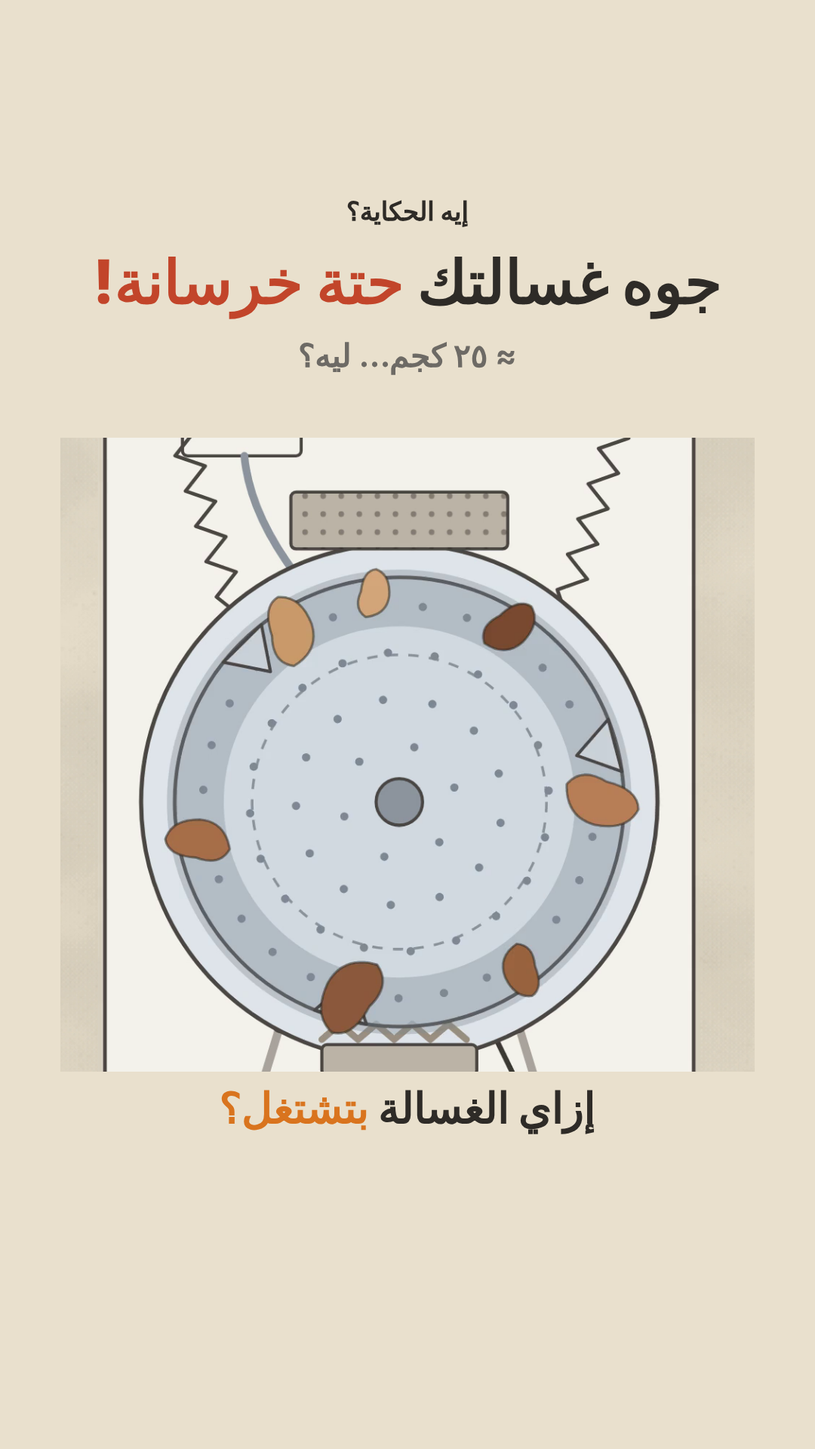
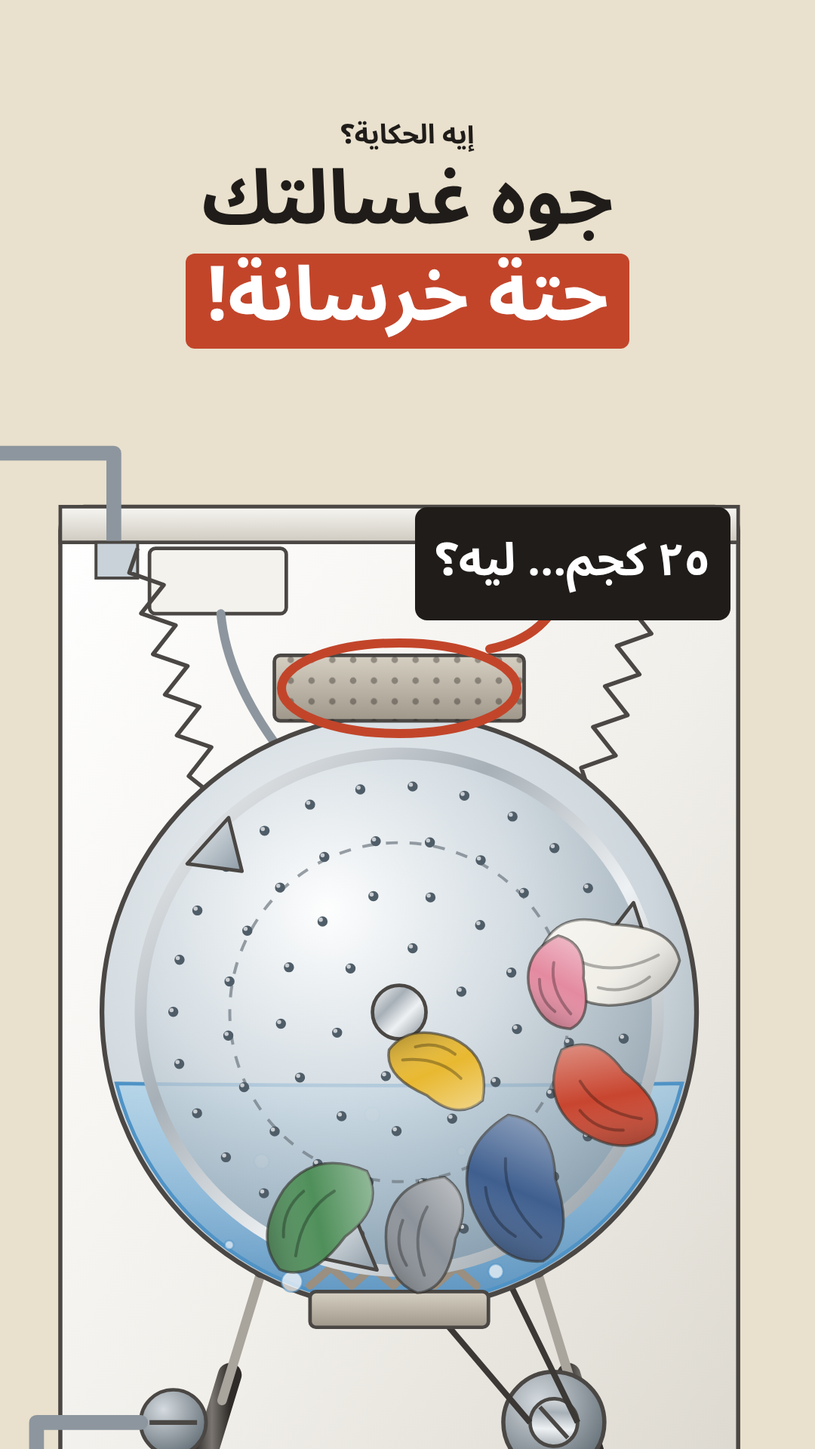
Washer: realistic shading (chrome drum, gradients, shadows, real-coloured clothes with folds, bubbles) and a sharp thumbnail drawn from the scene
Claude-Session: https://claude.ai/code/session_012dTfAniKuQkAFVCkp63p6x

diff --git a/brand/eh-elhekaya/cover-washer.html b/brand/eh-elhekaya/cover-washer.html
@@ -1,15 +1,111 @@
 <!doctype html>
 <html lang="ar" dir="rtl"><head><meta charset="utf-8"><title>Reel cover — washer</title>
-<link rel="stylesheet" href="../../design-system/tokens.css">
+<link rel="stylesheet" href="../../design-system/tokens.css"><link rel="stylesheet" href="../../design-system/components/bundle.css">
 <style>
-  body { margin: 0; } .cover { position: relative; width: 540px; height: 960px; overflow: hidden; font-family: var(--font-sans); color: #2e2b27; background: #e9e0cd; }
-  .bg { position: absolute; left: 40px; right: 40px; top: 290px; height: 420px; background: url(w-bg.png) center / cover; }
-  .t { position: absolute; left: 0; right: 0; text-align: center; margin: 0; }
+  /* 360×640 at 3x. Clean technical-diagram style: full-bleed paper, thin grey outlines, light fills, few words on screen. */
+  *, *::before, *::after { transition: none !important; animation: none !important; }
+  html, body { margin: 0; width: 360px; height: 640px; overflow: hidden; background: #e9e0cd; }
+  body { font-family: var(--font-sans); color: #2e2b27; }
+  .canvas { position: absolute; inset: 0; background: #e9e0cd center / cover; }
+  #stage { position: absolute; inset: 0; width: 360px; height: 640px; }
+  .mark { position: absolute; right: 14px; top: 14px; display: flex; gap: 5px; align-items: center; font: 700 10px var(--font-sans); opacity: .75; }
+  .caps { position: absolute; left: 20px; right: 20px; top: 60px; height: 60px; }
+  .cap { position: absolute; inset: 0; display: grid; place-items: center; text-align: center; opacity: 0; }
+  .cap p { margin: 0; font: 800 23px / 1.3 var(--font-sans); }
+  .w { --wc: #2e2b27; color: color-mix(in srgb, var(--wc) var(--mix, 100%), rgba(46,43,39,.25)); }
+  .w.k-blue { --wc: #2f6f9f; } .w.k-red { --wc: #c2452a; } .w.k-or { --wc: #d9741e; }
+  /* drawing */
+  .w-cab { fill: url(#gCab); stroke: #4a4744; stroke-width: 1.4; } .w-cab-top { fill: url(#gCabTop); stroke: #4a4744; stroke-width: 1.2; } .w-foot { fill: #5b5753; }
+  .w-tub { fill: url(#gTub); stroke: #4a4744; stroke-width: 1.6; } .w-drum { fill: url(#gDrum); stroke: url(#gChrome); stroke-width: 4; }
+  .w-pulley-ghost { fill: none; stroke: #6d7780; stroke-width: 1; stroke-dasharray: 4 4; opacity: .7; }
+  .w-holes { fill: none; stroke: #4f5d68; stroke-width: 3.4; stroke-linecap: round; } .w-holes-hi { fill: none; stroke: rgba(255,255,255,.7); stroke-width: 1.4; stroke-linecap: round; } .w-blur { fill: none; stroke: rgba(125,138,150,.35); stroke-width: 22; }
+  .w-paddle { fill: url(#gSteel); stroke: #4a4744; stroke-width: 1.2; stroke-linejoin: round; } .w-hub { fill: url(#gChrome); stroke: #4a4744; stroke-width: 1.2; }
+  .w-water { fill: url(#gWater); stroke: #4f93c6; stroke-width: 1.2; } .w-bubble { fill: rgba(255,255,255,.75); stroke: rgba(79,147,198,.6); stroke-width: .6; }
+  .w-heater { fill: none; stroke-width: 2.6; stroke-linejoin: round; stroke-linecap: round; } .w-heater-glow { fill: none; stroke: #f5a27a; stroke-width: 9; stroke-linejoin: round; }
+  .w-concrete { fill: url(#gConcrete); stroke: #4a4744; stroke-width: 1.2; } .w-concrete-dots { fill: url(#tz-dots); opacity: .35; }
+  .w-spring { fill: none; stroke: #4a4744; stroke-width: 1.4; stroke-linejoin: round; }
+  .w-damper { stroke: url(#gDamper); stroke-width: 8; stroke-linecap: round; } .w-rod { stroke: #a9a49c; stroke-width: 3.2; stroke-linecap: round; } .w-pin { fill: #f4f2ec; stroke: #4a4744; stroke-width: 1; }
+  .w-motor { fill: url(#gMotor); stroke: #4a4744; stroke-width: 1.4; } .w-pulley { fill: url(#gChrome); stroke: #4a4744; stroke-width: 1.2; } .w-spoke { stroke: #4a4744; stroke-width: 1.4; }
+  .w-belt { fill: none; stroke: #3b3835; stroke-width: 2; }
+  .w-pump { fill: url(#gMotor); stroke: #4a4744; stroke-width: 1.2; } .w-blade { stroke: #4a4744; stroke-width: 1.6; }
+  .w-hose { fill: none; stroke: #8d969e; stroke-width: 5; stroke-linecap: round; stroke-linejoin: round; } .w-hose-thin { fill: none; stroke: #8d969e; stroke-width: 3; stroke-linecap: round; }
+  .w-valve { fill: #c9d2d9; stroke: #4a4744; stroke-width: 1; } .w-drawer { fill: #f4f2ec; stroke: #4a4744; stroke-width: 1.2; }
+  .w-cloth { stroke: rgba(46,43,39,.6); stroke-width: .9; } .w-cloth-shade { fill: url(#gShade); } .w-fold { fill: none; stroke: rgba(0,0,0,.28); stroke-width: 1; stroke-linecap: round; } .w-shadow { fill: url(#gFloorShadow); }
+  .w-drop { fill: #5d9cc8; } .w-dirty { fill: #8a6a48; } .w-powder { fill: #ffffff; stroke: #8d969e; stroke-width: .5; }
+  .w-lock { fill: #d9741e; stroke: #4a4744; stroke-width: 1; } .w-lock-arc { fill: none; stroke: #4a4744; stroke-width: 2; }
+  .c-lead { fill: none; stroke: #6d6a65; stroke-width: 1; } .c-dot { fill: #f4f2ec; stroke: #4a4744; stroke-width: 1.2; } .c-num { font: 800 13px var(--font-sans); fill: #2e2b27; }
+  .c-warn { fill: none; stroke: #c2452a; stroke-width: 2; stroke-linejoin: round; } .c-warn-t { font: 800 14px var(--font-sans); fill: #c2452a; }
+  /* bathroom */
+  .b-tile { fill: #efe9dc; stroke: #d3cab7; stroke-width: 1; } .b-floor { fill: #e2dac9; stroke: #c4baa5; } .b-edge { stroke: #b8ae99; stroke-width: 2; }
+  .b-socket { fill: #f8f6f1; stroke: #4a4744; stroke-width: 1.2; } .b-plug { fill: #3b3835; } .b-cable { fill: none; stroke: #3b3835; stroke-width: 2.2; }
+  .b-tap { fill: none; stroke: #8d969e; stroke-width: 4; stroke-linecap: round; } .b-hose { fill: none; stroke: #8d969e; stroke-width: 5; stroke-linecap: round; } .b-drain { fill: #8d969e; }
+  .b-motion { fill: none; stroke: #6d6a65; stroke-width: 2; stroke-linecap: round; }
+  .m-front { fill: url(#gCab); stroke: #4a4744; stroke-width: 1.4; } .m-side { fill: url(#gSide); stroke: #4a4744; stroke-width: 1.4; } .m-top { fill: url(#gCabTop); stroke: #4a4744; stroke-width: 1.4; }
+  .m-panel { fill: #eceae4; stroke: #4a4744; stroke-width: 1; } .m-drawer { fill: #f8f7f3; stroke: #4a4744; stroke-width: 1; } .m-knob { fill: #f8f7f3; stroke: #4a4744; stroke-width: 1.4; }
+  .m-display { fill: #2e2b27; } .m-digits { font: 700 10px var(--font-numeral); fill: #e8453a; } .m-btn { fill: #d9d6ce; stroke: #4a4744; stroke-width: .6; }
+  .m-door { fill: #e7eaec; stroke: url(#gChrome); stroke-width: 8; } .m-glass { fill: url(#gGlass); stroke: #4a4744; stroke-width: 1.2; } .m-refl { fill: none; stroke: rgba(255,255,255,.75); stroke-width: 4; stroke-linecap: round; } .m-handle { stroke: #4a4744; stroke-width: 4; stroke-linecap: round; }
+  /* strips at the bottom */
+  .strip { position: absolute; left: 24px; right: 24px; bottom: 34px; height: 64px; opacity: 0; }
+  .strip svg { position: absolute; inset: 0; width: 100%; height: 100%; overflow: visible; }
+  .sig { fill: none; stroke: #d9741e; stroke-width: 2.2; stroke-linejoin: round; stroke-linecap: round; } .axis { fill: none; stroke: #4a4744; stroke-width: 1.2; }
+  .slab { font: 700 11px var(--font-sans); fill: #2e2b27; }
+  .prog { position: absolute; left: 60px; right: 60px; bottom: 44px; height: 34px; display: grid; grid-template-columns: repeat(3, 1fr); border: 1.2px solid #4a4744; opacity: 0; }
+  .prog span { display: grid; place-items: center; font: 800 12px var(--font-sans); color: #1f4f74; background: #b9d6ec; border-inline-start: 1px solid #4a4744; }
+  .prog span:first-child { border: 0; }
+  .prog i { position: absolute; top: -12px; width: 0; height: 0; border: 6px solid transparent; border-top-color: #d9741e; translate: 6px 0; }
+  .legend { position: absolute; right: 16px; top: 130px; background: rgba(248,246,241,.92); border: 1px solid #6d6a65; padding: 4px 8px; opacity: 0; font: 800 13px/1.7 var(--font-sans); }
+  .legend div { opacity: .35; } .legend div b { display: inline-grid; place-items: center; width: 17px; height: 17px; border: 1.2px solid #4a4744; border-radius: 50%; font-size: 11px; margin-inline-start: 6px; }
+  .inset { position: absolute; left: 22px; top: 400px; width: 120px; height: 120px; opacity: 0; }
+  .inset > div { border-radius: 50%; border: 2px solid #4a4744; background: #f4f2ec; overflow: hidden; }
+  .inset svg { width: 100%; height: 100%; }
+  .card { position: absolute; left: 50px; right: 50px; top: 230px; text-align: center; opacity: 0; }
+  .card > div { padding: 18px; background: rgba(248,246,241,.96); border: 1.4px solid #4a4744; }
+  .big { font: 800 40px var(--font-sans); }
+  .ink-f { fill: #2e2b27; } .lit { fill: #f8f6f1; }
+</style>
+<style>
+  html, body { width: 540px; height: 960px; }
+  .cover { position: relative; width: 540px; height: 960px; overflow: hidden; background: #e9e0cd; font-family: var(--font-sans); color: #1f1c19; }
+  .cover > svg.scene { position: absolute; left: -20px; top: 150px; width: 580px; height: 1031px; }
+  .h1 { position: absolute; left: 0; right: 0; top: 104px; z-index: 2; text-align: center; font: 900 50px/1.15 var(--font-sans); margin: 0; }
+  .h1 b { display: inline-block; background: #c2452a; color: #fff; padding: 0 14px 6px; margin-top: 6px; border-radius: 6px; }
+  .brand { position: absolute; left: 0; right: 0; top: 70px; text-align: center; font: 800 18px var(--font-sans); }
+  .tag { position: absolute; font: 900 30px var(--font-sans); color: #fff; background: #1f1c19; padding: 4px 14px 8px; border-radius: 8px; }
+  .q { position: absolute; left: 0; right: 0; top: 770px; text-align: center; font: 900 34px var(--font-sans); }
 </style></head><body>
+<svg width="0" height="0" style="position:absolute" aria-hidden="true"><defs>
+  <linearGradient id="gCab" x1="0" y1="0" x2="1" y2="1"><stop offset="0" stop-color="#ffffff"/><stop offset=".55" stop-color="#f1efea"/><stop offset="1" stop-color="#dcd8cf"/></linearGradient>
+  <linearGradient id="gCabTop" x1="0" y1="0" x2="0" y2="1"><stop offset="0" stop-color="#f7f6f2"/><stop offset="1" stop-color="#cfcac0"/></linearGradient>
+  <linearGradient id="gSide" x1="0" y1="0" x2="1" y2="0"><stop offset="0" stop-color="#d8d4cb"/><stop offset="1" stop-color="#b9b3a7"/></linearGradient>
+  <radialGradient id="gTub" cx=".4" cy=".35" r=".75"><stop offset="0" stop-color="#f2f5f7"/><stop offset=".7" stop-color="#cdd6dc"/><stop offset="1" stop-color="#9eabb4"/></radialGradient>
+  <radialGradient id="gDrum" cx=".36" cy=".3" r=".8"><stop offset="0" stop-color="#ffffff" stop-opacity=".9"/><stop offset=".45" stop-color="#d3dce2" stop-opacity=".75"/><stop offset="1" stop-color="#8496a3" stop-opacity=".85"/></radialGradient>
+  <linearGradient id="gChrome" x1="0" y1="0" x2="1" y2="1"><stop offset="0" stop-color="#fbfbfb"/><stop offset=".35" stop-color="#a7b0b7"/><stop offset=".6" stop-color="#eef1f3"/><stop offset="1" stop-color="#7f8a92"/></linearGradient>
+  <linearGradient id="gSteel" x1="0" y1="0" x2="1" y2="1"><stop offset="0" stop-color="#eef2f4"/><stop offset="1" stop-color="#8d9ba6"/></linearGradient>
+  <linearGradient id="gWater" x1="0" y1="0" x2="0" y2="1"><stop offset="0" stop-color="#9fd0ee" stop-opacity=".55"/><stop offset="1" stop-color="#3f86bf" stop-opacity=".75"/></linearGradient>
+  <linearGradient id="gConcrete" x1="0" y1="0" x2="0" y2="1"><stop offset="0" stop-color="#d6d0c3"/><stop offset="1" stop-color="#9f978a"/></linearGradient>
+  <radialGradient id="gMotor" cx=".35" cy=".3" r=".8"><stop offset="0" stop-color="#d4dadf"/><stop offset="1" stop-color="#5f6a72"/></radialGradient>
+  <radialGradient id="gGlass" cx=".35" cy=".3" r=".85"><stop offset="0" stop-color="#eaf3f8" stop-opacity=".9"/><stop offset=".6" stop-color="#a9bfcd" stop-opacity=".75"/><stop offset="1" stop-color="#5d7686" stop-opacity=".9"/></radialGradient>
+  <linearGradient id="gShade" x1="0" y1="0" x2="1" y2="1"><stop offset="0" stop-color="#ffffff" stop-opacity=".45"/><stop offset=".5" stop-color="#ffffff" stop-opacity="0"/><stop offset="1" stop-color="#000000" stop-opacity=".35"/></linearGradient>
+  <linearGradient id="gDamper" x1="0" y1="0" x2="1" y2="0"><stop offset="0" stop-color="#3b3835"/><stop offset=".45" stop-color="#7a7570"/><stop offset="1" stop-color="#2e2b28"/></linearGradient>
+  <radialGradient id="gFloorShadow" cx=".5" cy=".5" r=".5"><stop offset="0" stop-color="#000" stop-opacity=".28"/><stop offset="1" stop-color="#000" stop-opacity="0"/></radialGradient>
+</defs></svg>
 <div class="cover">
-  <p class="t" style="top:130px;font:700 17px var(--font-sans)">إيه الحكاية؟</p>
-  <p class="t" style="top:162px;font:800 40px/1.25 var(--font-sans)">جوه غسالتك <span style="color:#c2452a">حتة خرسانة!</span></p>
-  <p class="t" style="top:224px;font:700 21px var(--font-sans);color:#6d6a65">≈ ٢٥ كجم… ليه؟</p>
-  <div class="bg"></div>
-  <p class="t" style="top:716px;font:800 28px/1.3 var(--font-sans)">إزاي الغسالة <span style="color:#d9741e">بتشتغل؟</span></p>
-</div></body></html>
+  <div class="brand">إيه الحكاية؟</div>
+  <p class="h1">جوه غسالتك<br><b>حتة خرسانة!</b></p>
+  <svg class="scene" id="cstage" viewBox="0 0 360 640"></svg>
+  <svg style="position:absolute;inset:0" width="540" height="960"><ellipse id="ring" cx="0" cy="0" rx="78" ry="30" style="fill:none;stroke:#c2452a;stroke-width:6"/><path id="arrow" d="" style="fill:none;stroke:#c2452a;stroke-width:6;stroke-linecap:round"/></svg>
+  <div class="tag" id="tag">٢٥ كجم… ليه؟</div>
+</div>
+<script src="../../videos/washer/timing.js"></script>
+<script src="../../design-system/components/bundle.js"></script><script>TebEzay.patterns();</script>
+<script src="../../videos/washer/scene.js"></script>
+<script>
+  var t = window.__L(11) + 1.5, c = window.__washer(document.getElementById("cstage"), t);
+  // concrete block position in drawing units → cover pixels (scene svg is 580 wide at left −20, top 230)
+  var k = 580 / 360, cxw = 180, cyw = 318 - 100 - 9, sx = (cxw - c[0]) * c[2] + 180, sy = (cyw - c[1]) * c[2] + 320;
+  var X = -20 + sx * k, Y = 150 + sy * k;
+  var r = document.getElementById("ring"); r.setAttribute("cx", X); r.setAttribute("cy", Y);
+  var tg = document.getElementById("tag"); tg.style.left = (X + 10) + "px"; tg.style.top = (Y - 120) + "px";
+  document.getElementById("arrow").setAttribute("d", "M" + (X + 110) + " " + (Y - 70) + " Q" + (X + 100) + " " + (Y - 34) + " " + (X + 60) + " " + (Y - 26));
+</script>
+</body></html>

diff --git a/videos/washer/index.html b/videos/washer/index.html
@@ -19,22 +19,22 @@
   .w { --wc: #2e2b27; color: color-mix(in srgb, var(--wc) var(--mix, 100%), rgba(46,43,39,.25)); }
   .w.k-blue { --wc: #2f6f9f; } .w.k-red { --wc: #c2452a; } .w.k-or { --wc: #d9741e; }
   /* drawing */
-  .w-cab { fill: #f4f2ec; stroke: #4a4744; stroke-width: 1.4; } .w-cab-top { fill: #e3e0d8; stroke: #4a4744; stroke-width: 1.2; } .w-foot { fill: #5b5753; }
-  .w-tub { fill: #dfe5e8; stroke: #4a4744; stroke-width: 1.6; } .w-drum { fill: rgba(199,211,220,.62); stroke: #4a4744; stroke-width: 1.4; }
+  .w-cab { fill: url(#gCab); stroke: #4a4744; stroke-width: 1.4; } .w-cab-top { fill: url(#gCabTop); stroke: #4a4744; stroke-width: 1.2; } .w-foot { fill: #5b5753; }
+  .w-tub { fill: url(#gTub); stroke: #4a4744; stroke-width: 1.6; } .w-drum { fill: url(#gDrum); stroke: url(#gChrome); stroke-width: 4; }
   .w-pulley-ghost { fill: none; stroke: #6d7780; stroke-width: 1; stroke-dasharray: 4 4; opacity: .7; }
-  .w-holes { fill: none; stroke: #7d8a96; stroke-width: 3.2; stroke-linecap: round; } .w-blur { fill: none; stroke: rgba(125,138,150,.35); stroke-width: 22; }
-  .w-paddle { fill: #c9d2d9; stroke: #4a4744; stroke-width: 1.2; stroke-linejoin: round; } .w-hub { fill: #8d969e; stroke: #4a4744; stroke-width: 1.2; }
-  .w-water { fill: rgba(126,178,214,.55); stroke: #5d9cc8; stroke-width: 1; }
+  .w-holes { fill: none; stroke: #4f5d68; stroke-width: 3.4; stroke-linecap: round; } .w-holes-hi { fill: none; stroke: rgba(255,255,255,.7); stroke-width: 1.4; stroke-linecap: round; } .w-blur { fill: none; stroke: rgba(125,138,150,.35); stroke-width: 22; }
+  .w-paddle { fill: url(#gSteel); stroke: #4a4744; stroke-width: 1.2; stroke-linejoin: round; } .w-hub { fill: url(#gChrome); stroke: #4a4744; stroke-width: 1.2; }
+  .w-water { fill: url(#gWater); stroke: #4f93c6; stroke-width: 1.2; } .w-bubble { fill: rgba(255,255,255,.75); stroke: rgba(79,147,198,.6); stroke-width: .6; }
   .w-heater { fill: none; stroke-width: 2.6; stroke-linejoin: round; stroke-linecap: round; } .w-heater-glow { fill: none; stroke: #f5a27a; stroke-width: 9; stroke-linejoin: round; }
-  .w-concrete { fill: #bdb6a8; stroke: #4a4744; stroke-width: 1.2; } .w-concrete-dots { fill: url(#tz-dots); opacity: .35; }
+  .w-concrete { fill: url(#gConcrete); stroke: #4a4744; stroke-width: 1.2; } .w-concrete-dots { fill: url(#tz-dots); opacity: .35; }
   .w-spring { fill: none; stroke: #4a4744; stroke-width: 1.4; stroke-linejoin: round; }
-  .w-damper { stroke: #5b5753; stroke-width: 7; stroke-linecap: round; } .w-rod { stroke: #a9a49c; stroke-width: 3.2; stroke-linecap: round; } .w-pin { fill: #f4f2ec; stroke: #4a4744; stroke-width: 1; }
-  .w-motor { fill: #8d969e; stroke: #4a4744; stroke-width: 1.4; } .w-pulley { fill: #c9d2d9; stroke: #4a4744; stroke-width: 1.2; } .w-spoke { stroke: #4a4744; stroke-width: 1.4; }
+  .w-damper { stroke: url(#gDamper); stroke-width: 8; stroke-linecap: round; } .w-rod { stroke: #a9a49c; stroke-width: 3.2; stroke-linecap: round; } .w-pin { fill: #f4f2ec; stroke: #4a4744; stroke-width: 1; }
+  .w-motor { fill: url(#gMotor); stroke: #4a4744; stroke-width: 1.4; } .w-pulley { fill: url(#gChrome); stroke: #4a4744; stroke-width: 1.2; } .w-spoke { stroke: #4a4744; stroke-width: 1.4; }
   .w-belt { fill: none; stroke: #3b3835; stroke-width: 2; }
-  .w-pump { fill: #b9c3ca; stroke: #4a4744; stroke-width: 1.2; } .w-blade { stroke: #4a4744; stroke-width: 1.6; }
+  .w-pump { fill: url(#gMotor); stroke: #4a4744; stroke-width: 1.2; } .w-blade { stroke: #4a4744; stroke-width: 1.6; }
   .w-hose { fill: none; stroke: #8d969e; stroke-width: 5; stroke-linecap: round; stroke-linejoin: round; } .w-hose-thin { fill: none; stroke: #8d969e; stroke-width: 3; stroke-linecap: round; }
   .w-valve { fill: #c9d2d9; stroke: #4a4744; stroke-width: 1; } .w-drawer { fill: #f4f2ec; stroke: #4a4744; stroke-width: 1.2; }
-  .w-cloth { stroke: rgba(46,43,39,.55); stroke-width: .9; }
+  .w-cloth { stroke: rgba(46,43,39,.6); stroke-width: .9; } .w-cloth-shade { fill: url(#gShade); } .w-fold { fill: none; stroke: rgba(0,0,0,.28); stroke-width: 1; stroke-linecap: round; } .w-shadow { fill: url(#gFloorShadow); }
   .w-drop { fill: #5d9cc8; } .w-dirty { fill: #8a6a48; } .w-powder { fill: #ffffff; stroke: #8d969e; stroke-width: .5; }
   .w-lock { fill: #d9741e; stroke: #4a4744; stroke-width: 1; } .w-lock-arc { fill: none; stroke: #4a4744; stroke-width: 2; }
   .c-lead { fill: none; stroke: #6d6a65; stroke-width: 1; } .c-dot { fill: #f4f2ec; stroke: #4a4744; stroke-width: 1.2; } .c-num { font: 800 13px var(--font-sans); fill: #2e2b27; }
@@ -44,10 +44,10 @@
   .b-socket { fill: #f8f6f1; stroke: #4a4744; stroke-width: 1.2; } .b-plug { fill: #3b3835; } .b-cable { fill: none; stroke: #3b3835; stroke-width: 2.2; }
   .b-tap { fill: none; stroke: #8d969e; stroke-width: 4; stroke-linecap: round; } .b-hose { fill: none; stroke: #8d969e; stroke-width: 5; stroke-linecap: round; } .b-drain { fill: #8d969e; }
   .b-motion { fill: none; stroke: #6d6a65; stroke-width: 2; stroke-linecap: round; }
-  .m-front { fill: #f8f7f3; stroke: #4a4744; stroke-width: 1.4; } .m-side { fill: #dedad1; stroke: #4a4744; stroke-width: 1.4; } .m-top { fill: #ece9e2; stroke: #4a4744; stroke-width: 1.4; }
+  .m-front { fill: url(#gCab); stroke: #4a4744; stroke-width: 1.4; } .m-side { fill: url(#gSide); stroke: #4a4744; stroke-width: 1.4; } .m-top { fill: url(#gCabTop); stroke: #4a4744; stroke-width: 1.4; }
   .m-panel { fill: #eceae4; stroke: #4a4744; stroke-width: 1; } .m-drawer { fill: #f8f7f3; stroke: #4a4744; stroke-width: 1; } .m-knob { fill: #f8f7f3; stroke: #4a4744; stroke-width: 1.4; }
   .m-display { fill: #2e2b27; } .m-digits { font: 700 10px var(--font-numeral); fill: #e8453a; } .m-btn { fill: #d9d6ce; stroke: #4a4744; stroke-width: .6; }
-  .m-door { fill: #d9dde0; stroke: #4a4744; stroke-width: 1.6; } .m-glass { fill: #c7d3dc; stroke: #4a4744; stroke-width: 1.2; } .m-handle { stroke: #4a4744; stroke-width: 4; stroke-linecap: round; }
+  .m-door { fill: #e7eaec; stroke: url(#gChrome); stroke-width: 8; } .m-glass { fill: url(#gGlass); stroke: #4a4744; stroke-width: 1.2; } .m-refl { fill: none; stroke: rgba(255,255,255,.75); stroke-width: 4; stroke-linecap: round; } .m-handle { stroke: #4a4744; stroke-width: 4; stroke-linecap: round; }
   /* strips at the bottom */
   .strip { position: absolute; left: 24px; right: 24px; bottom: 34px; height: 64px; opacity: 0; }
   .strip svg { position: absolute; inset: 0; width: 100%; height: 100%; overflow: visible; }
@@ -70,6 +70,22 @@
 </head>
 <body>
 <div class="canvas" id="paper"></div>
+<svg width="0" height="0" style="position:absolute" aria-hidden="true"><defs>
+  <linearGradient id="gCab" x1="0" y1="0" x2="1" y2="1"><stop offset="0" stop-color="#ffffff"/><stop offset=".55" stop-color="#f1efea"/><stop offset="1" stop-color="#dcd8cf"/></linearGradient>
+  <linearGradient id="gCabTop" x1="0" y1="0" x2="0" y2="1"><stop offset="0" stop-color="#f7f6f2"/><stop offset="1" stop-color="#cfcac0"/></linearGradient>
+  <linearGradient id="gSide" x1="0" y1="0" x2="1" y2="0"><stop offset="0" stop-color="#d8d4cb"/><stop offset="1" stop-color="#b9b3a7"/></linearGradient>
+  <radialGradient id="gTub" cx=".4" cy=".35" r=".75"><stop offset="0" stop-color="#f2f5f7"/><stop offset=".7" stop-color="#cdd6dc"/><stop offset="1" stop-color="#9eabb4"/></radialGradient>
+  <radialGradient id="gDrum" cx=".36" cy=".3" r=".8"><stop offset="0" stop-color="#ffffff" stop-opacity=".9"/><stop offset=".45" stop-color="#d3dce2" stop-opacity=".75"/><stop offset="1" stop-color="#8496a3" stop-opacity=".85"/></radialGradient>
+  <linearGradient id="gChrome" x1="0" y1="0" x2="1" y2="1"><stop offset="0" stop-color="#fbfbfb"/><stop offset=".35" stop-color="#a7b0b7"/><stop offset=".6" stop-color="#eef1f3"/><stop offset="1" stop-color="#7f8a92"/></linearGradient>
+  <linearGradient id="gSteel" x1="0" y1="0" x2="1" y2="1"><stop offset="0" stop-color="#eef2f4"/><stop offset="1" stop-color="#8d9ba6"/></linearGradient>
+  <linearGradient id="gWater" x1="0" y1="0" x2="0" y2="1"><stop offset="0" stop-color="#9fd0ee" stop-opacity=".55"/><stop offset="1" stop-color="#3f86bf" stop-opacity=".75"/></linearGradient>
+  <linearGradient id="gConcrete" x1="0" y1="0" x2="0" y2="1"><stop offset="0" stop-color="#d6d0c3"/><stop offset="1" stop-color="#9f978a"/></linearGradient>
+  <radialGradient id="gMotor" cx=".35" cy=".3" r=".8"><stop offset="0" stop-color="#d4dadf"/><stop offset="1" stop-color="#5f6a72"/></radialGradient>
+  <radialGradient id="gGlass" cx=".35" cy=".3" r=".85"><stop offset="0" stop-color="#eaf3f8" stop-opacity=".9"/><stop offset=".6" stop-color="#a9bfcd" stop-opacity=".75"/><stop offset="1" stop-color="#5d7686" stop-opacity=".9"/></radialGradient>
+  <linearGradient id="gShade" x1="0" y1="0" x2="1" y2="1"><stop offset="0" stop-color="#ffffff" stop-opacity=".45"/><stop offset=".5" stop-color="#ffffff" stop-opacity="0"/><stop offset="1" stop-color="#000000" stop-opacity=".35"/></linearGradient>
+  <linearGradient id="gDamper" x1="0" y1="0" x2="1" y2="0"><stop offset="0" stop-color="#3b3835"/><stop offset=".45" stop-color="#7a7570"/><stop offset="1" stop-color="#2e2b28"/></linearGradient>
+  <radialGradient id="gFloorShadow" cx=".5" cy=".5" r=".5"><stop offset="0" stop-color="#000" stop-opacity=".28"/><stop offset="1" stop-color="#000" stop-opacity="0"/></radialGradient>
+</defs></svg>
 <svg width="0" height="0" style="position:absolute" aria-hidden="true"><defs>
   <g id="mark">
     <rect x="84" y="4" width="32" height="10" class="ink-f"/><rect x="94" y="14" width="12" height="14" class="ink-f"/>
@@ -114,7 +130,7 @@
 </div>
 
 <!-- 0: the concrete, ~25 kg -->
-<div class="card" style="top:430px;left:70px;right:70px" data-v="fade" data-l="0" data-o="1.2" data-d="0.4"><div data-v="out" data-l="1" data-o="0" data-d="0.3"><span class="big" style="font-size:30px">≈ ٢٥ كجم</span></div></div>
+<div class="card" style="top:468px;left:80px;right:80px" data-v="fade" data-l="0" data-o="1.2" data-d="0.4"><div data-v="out" data-l="1" data-o="0" data-d="0.3"><span class="big" style="font-size:30px">≈ ٢٥ كجم</span></div></div>
 <!-- 3: brand -->
 <div class="card" data-v="fade" data-l="3" data-o="-0.2" data-d="0.35"><div data-v="out" data-l="4" data-o="-0.3" data-d="0.3">
   <svg viewBox="0 0 200 200" width="90" height="90"><use href="#mark"/></svg>

diff --git a/videos/washer/scene.js b/videos/washer/scene.js
@@ -45,7 +45,7 @@
   }
 
   // garments: colour, size, phase
-  var CL = [["#8b5a3c", 15, 0.0], ["#a8704a", 12, 0.18], ["#c99a6a", 13, 0.37], ["#7a4a30", 11, 0.55], ["#b98058", 14, 0.71], ["#9a6440", 10, 0.86], ["#d3a77a", 9, 0.44]];
+  var CL = [["#3f5f8f", 24, 0.0], ["#c8452f", 20, 0.18], ["#f1efe8", 22, 0.37], ["#e8b830", 17, 0.55], ["#4f8f5a", 21, 0.71], ["#8d939a", 19, 0.86], ["#e48aa0", 15, 0.44]];   // jeans, red tee, white towel, yellow, green, grey hoodie, pink
   function garment(t, i, cx, cy, R) {
     var m = mode(t), th = drumA(t), c = CL[i];
     var pinned = function (base) { var a = base + th; return [cx + Math.cos(a) * (R - c[1] * 0.6), cy + Math.sin(a) * (R - c[1] * 0.6), a]; };
@@ -74,7 +74,8 @@
   function section(g, t) {
     var s = shake(t), cx = 180 + s[0], cy = 318 + s[1], RO = 100, R = 87, th = drumA(t), m = mode(t), sp = omega(t);
     // cabinet
-    el("rect", { x: 66, y: 148, width: 228, height: 336, rx: 4, "class": "w-cab" }, g);
+    el("ellipse", { cx: 180, cy: 494, rx: 150, ry: 12, "class": "w-shadow" }, g);
+    el("rect", { x: 66, y: 148, width: 228, height: 336, rx: 8, "class": "w-cab" }, g);
     el("rect", { x: 66, y: 148, width: 228, height: 12, "class": "w-cab-top" }, g);
     el("rect", { x: 82, y: 484, width: 20, height: 6, "class": "w-foot" }, g); el("rect", { x: 258, y: 484, width: 20, height: 6, "class": "w-foot" }, g);
     // inlet: tap → valve → detergent drawer → tub
@@ -98,6 +99,7 @@
       var yW = cy + RO - wl * 2 * RO, hw = Math.sqrt(Math.max(0, RO * RO - Math.pow(yW - cy, 2))) - 2, wav = 2.5 * Math.sin(t * 4);
       el("path", { d: "M" + f1(cx - hw) + " " + f1(yW) + " Q" + f1(cx) + " " + f1(yW + wav) + " " + f1(cx + hw) + " " + f1(yW) + " A" + (RO - 2) + " " + (RO - 2) + " 0 0 1 " + f1(cx - hw) + " " + f1(yW) + " Z", "class": "w-water" }, g);
     }
+    if (wl > 0.05 && mode(t) === "tumble") for (var bb = 0; bb < 10; bb++) { var ub = ((bb * 0.41 + t * 0.6) % 1), bx = cx - 60 + bb * 13, by = cy + RO - 6 - ub * wl * 2 * RO * 0.9; el("circle", { cx: f1(bx + Math.sin(t * 3 + bb) * 3), cy: f1(by), r: (1.5 + (bb % 3)).toFixed(1), "class": "w-bubble", style: "opacity:" + (1 - ub).toFixed(2) }, g); }
     var hot = win(t, L(13) + 0.3, L(14) + 0.2);
     el("path", { d: "M" + f1(cx - 30) + " " + f1(cy + 92) + " l7 -6 l7 6 l7 -6 l7 6 l7 -6 l7 6 l7 -6 l7 6", "class": "w-heater", style: "stroke:" + (hot ? "#d8452a" : "#9a8f80") }, g);
     if (hot) el("path", { d: "M" + f1(cx - 30) + " " + f1(cy + 92) + " l7 -6 l7 6 l7 -6 l7 6 l7 -6 l7 6 l7 -6 l7 6", "class": "w-heater-glow", style: "opacity:" + (0.5 * hot * (0.7 + 0.3 * Math.sin(t * 9))).toFixed(2) }, g);
@@ -110,6 +112,7 @@
     el("circle", { cx: f1(cx), cy: f1(cy), r: R - 30, "class": "w-pulley-ghost" }, g);
     var holes = []; for (var ring = 0; ring < 4; ring++) { var rr = 22 + ring * 18, nn = 6 + ring * 7; for (var h = 0; h < nn; h++) { var a = th + h / nn * Math.PI * 2 + ring * 0.3; holes.push("M" + f1(cx + Math.cos(a) * rr) + " " + f1(cy + Math.sin(a) * rr) + "h0.01"); } }
     el("path", { d: holes.join(""), "class": "w-holes" }, g);
+    el("path", { d: holes.join("").replace(/M([\d.\-]+) ([\d.\-]+)/g, function (m0, x, y) { return "M" + (+x - 0.6).toFixed(1) + " " + (+y - 0.6).toFixed(1); }), "class": "w-holes-hi" }, g);
     if (sp > 12) el("circle", { cx: f1(cx), cy: f1(cy), r: R - 8, "class": "w-blur" }, g);
     for (var p = 0; p < 3; p++) { var pa2 = th + p * Math.PI * 2 / 3, x1 = cx + Math.cos(pa2 - 0.12) * R, y1 = cy + Math.sin(pa2 - 0.12) * R, x2 = cx + Math.cos(pa2 + 0.12) * R, y2 = cy + Math.sin(pa2 + 0.12) * R, x3 = cx + Math.cos(pa2) * (R - 16), y3 = cy + Math.sin(pa2) * (R - 16);
       el("path", { d: "M" + f1(x1) + " " + f1(y1) + " L" + f1(x3) + " " + f1(y3) + " L" + f1(x2) + " " + f1(y2) + " Z", "class": "w-paddle" }, g); }
@@ -118,7 +121,9 @@
     CL.forEach(function (c, i) {
       var q = garment(t, i, cx, cy, R), rot = q[2] * 57.3;
       var gg = el("g", { transform: "translate(" + f1(q[0]) + " " + f1(q[1]) + ") rotate(" + f1(rot) + ")" }, g);
-      el("path", { d: "M" + (-c[1]) + " " + (-c[1] * 0.55) + " q" + c[1] * 0.4 + " " + (-c[1] * 0.5) + " " + c[1] * 1.1 + " " + (-c[1] * 0.1) + " q" + c[1] * 0.9 + " " + c[1] * 0.2 + " " + c[1] * 0.9 + " " + c[1] * 0.75 + " q" + (-c[1] * 0.3) + " " + c[1] * 0.6 + " " + (-c[1] * 1.2) + " " + c[1] * 0.45 + " q" + (-c[1] * 0.8) + " " + (-c[1] * 0.2) + " " + (-c[1] * 0.8) + " " + (-c[1] * 1.1) + " Z", fill: c[0], "class": "w-cloth" }, gg);
+      var cd = "M" + (-c[1]) + " " + (-c[1] * 0.55) + " q" + c[1] * 0.4 + " " + (-c[1] * 0.5) + " " + c[1] * 1.1 + " " + (-c[1] * 0.1) + " q" + c[1] * 0.9 + " " + c[1] * 0.2 + " " + c[1] * 0.9 + " " + c[1] * 0.75 + " q" + (-c[1] * 0.3) + " " + c[1] * 0.6 + " " + (-c[1] * 1.2) + " " + c[1] * 0.45 + " q" + (-c[1] * 0.8) + " " + (-c[1] * 0.2) + " " + (-c[1] * 0.8) + " " + (-c[1] * 1.1) + " Z";
+      el("path", { d: cd, fill: c[0], "class": "w-cloth" }, gg); el("path", { d: cd, "class": "w-cloth-shade" }, gg);
+      el("path", { d: "M" + (-c[1] * 0.5) + " " + (-c[1] * 0.2) + " q" + c[1] * 0.5 + " " + c[1] * 0.35 + " " + c[1] * 1.2 + " " + c[1] * 0.15 + " M" + (-c[1] * 0.3) + " " + c[1] * 0.25 + " q" + c[1] * 0.4 + " " + c[1] * 0.2 + " " + c[1] * 0.8 + " 0", "class": "w-fold" }, gg);
     });
     // water flung out through the holes during the spin (19)
     var fling = win(t, L(19), L(20) + 0.2);
@@ -146,6 +151,7 @@
     var jx = walk ? Math.sin(t * 40) * 2.2 + walk * 10 : 0, jy = walk ? Math.abs(Math.sin(t * 33)) * -1.5 : 0;
     var m = el("g", { transform: "translate(" + f1(jx) + " " + f1(jy) + ")" }, g);
     el("path", { d: "M167 143 C170 190 130 200 120 228", "class": "b-cable" }, m);
+    el("ellipse", { cx: 196, cy: 414, rx: 128, ry: 12, "class": "w-shadow" }, m);
     el("path", { d: "M268 210 L300 186 V380 L268 410 Z", "class": "m-side" }, m);
     el("path", { d: "M92 210 L124 186 H300 L268 210 Z", "class": "m-top" }, m);
     el("rect", { x: 92, y: 210, width: 176, height: 200, rx: 3, "class": "m-front" }, m);
@@ -160,7 +166,8 @@
     var th = drumA(t), holes = [];
     for (var h = 0; h < 24; h++) { var a = th + h / 24 * Math.PI * 2, rr = 16 + (h % 3) * 11; holes.push("M" + f1(dcx + Math.cos(a) * rr) + " " + f1(dcy + Math.sin(a) * rr) + "h0.01"); }
     el("path", { d: holes.join(""), "class": "w-holes" }, m);
-    [0, 2, 4].forEach(function (i) { var q = garment(t, i, dcx, dcy, 48); var c = CL[i]; el("ellipse", { cx: f1(q[0]), cy: f1(q[1]), rx: c[1] * 0.8, ry: c[1] * 0.5, fill: c[0], "class": "w-cloth", transform: "rotate(" + f1(q[2] * 57.3) + " " + f1(q[0]) + " " + f1(q[1]) + ")" }, m); });
+    [0, 2, 4].forEach(function (i) { var q = garment(t, i, dcx, dcy, 48); var c = CL[i]; el("ellipse", { cx: f1(q[0]), cy: f1(q[1]), rx: c[1] * 0.55, ry: c[1] * 0.35, fill: c[0], "class": "w-cloth", transform: "rotate(" + f1(q[2] * 57.3) + " " + f1(q[0]) + " " + f1(q[1]) + ")" }, m); });
+    el("path", { d: "M" + (dcx - 34) + " " + (dcy - 22) + " A40 40 0 0 1 " + (dcx - 6) + " " + (dcy - 40), "class": "m-refl" }, m);
     el("path", { d: "M244 312 v20", "class": "m-handle" }, m);
     el("path", { d: "M300 330 C330 340 330 420 310 440 H280", "class": "b-hose" }, m);
     el("rect", { x: 270, y: 436, width: 26, height: 8, "class": "b-drain" }, cvs);
